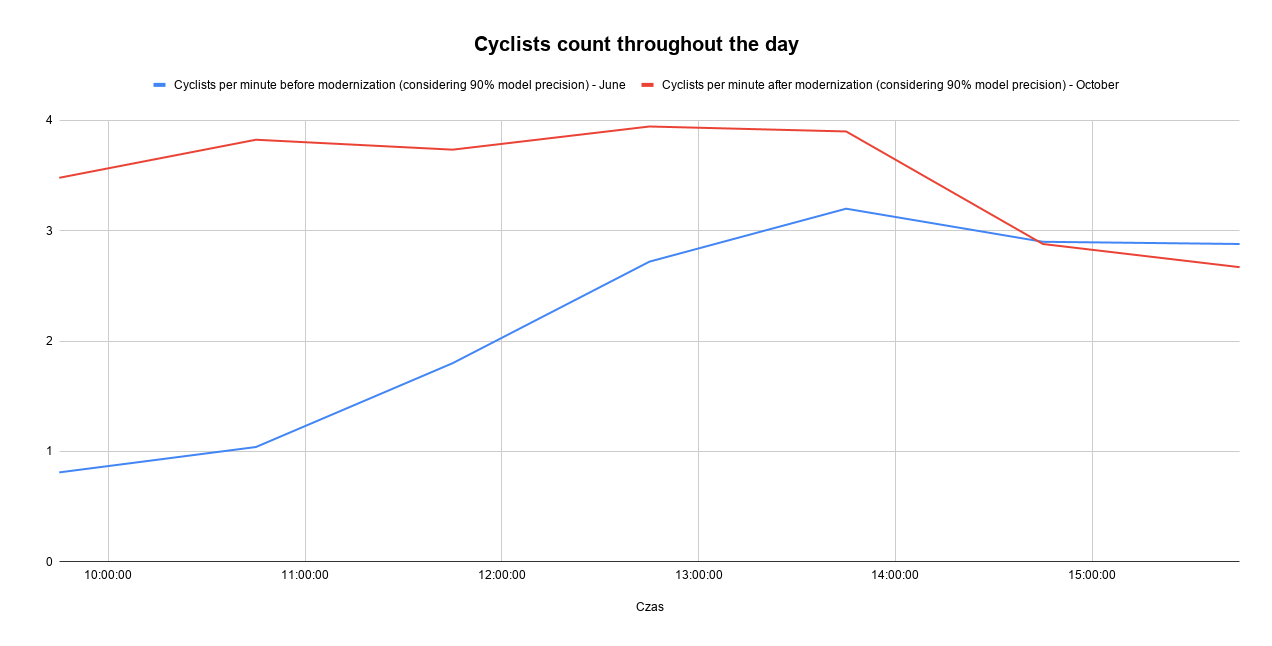
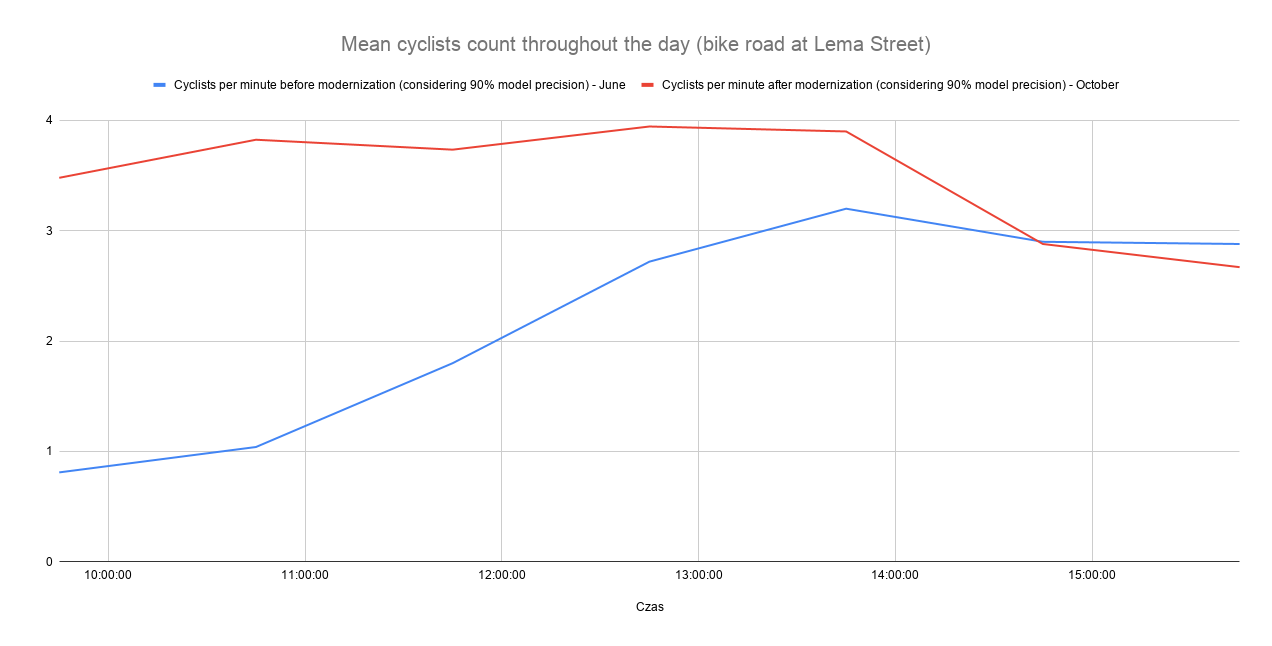
Fix after CR 1.0

Changed region(s): [[0.2759, 0.0619, 0.7358, 0.0929]]

diff --git a/chapter3.tex b/chapter3.tex
@@ -182,10 +182,24 @@ The figure below shows a frame from a video on which inference was performed (wi
 During the testing phase, I have been saving every video generated during the inference process. However, after that I quit doing that, because a generated video was almost five times bigger than the original one (1-hour video downloaded from website video stream was approximately 700MB big, so saving every result of inference would fill my Google Drive memory very quickly). Instead, I have implemented that at the end of execution of \colorbox{Gray}{detect.py} information about the video was written to \colorbox{Gray}{result.csv} file (video name, video duration, cyclist count).
 \section{Exemplary evaluation of results}
 \label{sec:results}
-To familiarize with the potential of Visual Bicycle Counter, I have prepared an exemplary interpretation of the Counter's data. I had chosen video files collected between 10 AM and 8 PM from a random week before modernization of bike road on Lema Street and performed inference on them. The same I have done with videos from the random week after modernization. This is how the collected data looks like graphically:
-\begin{figure} [h]
+To familiarize with the potential of Visual Bicycle Counter, I have prepared an exemplary interpretation of the Counter's data. I had chosen video files collected between 10 AM and 8 PM from a random week before modernization of bike road on Lema Street and performed inference on them. The same I have done with videos from the random week after modernization. I have aggregated this data to show mean value for each hour of the day of the week and put it on a graph. This is how the aggregated data looks like graphically:
+\begin{figure}[h]
     \centering
-     \resizebox{\textwidth}{!}{\includegraphics{images/graph}}
+    \resizebox{\textwidth}{!}{\includegraphics{images/graph}}
+    \caption{Mean cyclists count in week scale (Lema Street)}
     \label{fig:graph}
 \end{figure}
-Even this simple example provides important information on whether investment turned out to be a success or not. We can see that even though data after modernization was collected in October - the month we cannot call cyclists favourite - number of cyclist per minute was higher than in June. It could be one of the ways to evaluate local government's projects.
+\newline Even this simple example provides important information on whether investment turned out to be a success or not. We can see that even though data after modernization was collected in October - the month we cannot call cyclists favourite - number of cyclist per minute was higher than in June. It could be one of the ways to evaluate local government's projects. Second example showing different measure that can be taken with data collected by the Counter is to simply take daily cyclists count and compare it on the scale of the month. In figure \ref{fig:j-s} we can see cyclists count collected in June and September as well as sum of those numbers.
+\begin{figure}
+    \centering
+    \includegraphics{images/tableJS}
+    \caption{June and September cyclists count}
+    \label{fig:j-s}
+\end{figure}
+Showing this data on a graph like in figure \ref{fig:j-s2} won't show striking differences, but we can still see that overall more cyclists were detected in September than in June. There can be a lot of reasons why data is like this, but collected numbers are very good indicators to compare with other parameters like weather conditions in specific month (temperature, rainfall level).
+\begin{figure}
+    \centering
+    \resizebox{\textwidth}{!}{\includegraphics{images/graph2}}
+    \caption{Cyclists count in June and September}
+    \label{fig:j-s2}
+\end{figure}
